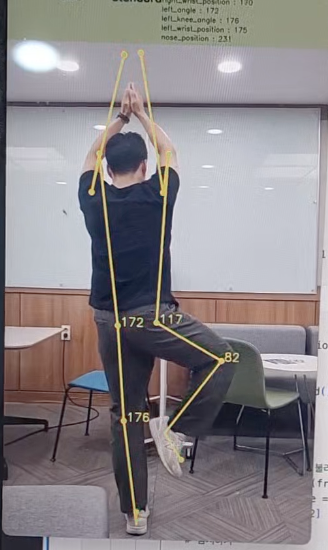
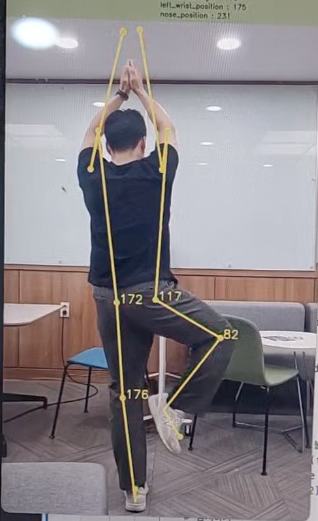
update readme

diff --git a/README.md b/README.md
@@ -46,6 +46,6 @@ MediaPipe, OpenCV를 이용하여 비디오 내 움직임 Detection
 <!-- 평상시 - 흰색 | 정상 - 초록색 | 부족 - 노란색 | 측정불가 - 빨간색 -->
 일반 - ⚪ | 정상 - 🟢 | 부족 - 🟡 | 측정불가 - 🔴
 <br>
-<img src="./readme/2-1.png" width="70"> <img src="./readme/2-2.png" width="70"> <img src="./readme/2-3.png" width="70"> <img src="./readme/2-4.png" width="70">
+<img src="./readme/2-1.png" width="140"> <img src="./readme/2-2.png" width="140"> <img src="./readme/2-3.png" width="140"> <img src="./readme/2-4.png" width="140">
 <br>
 <br>
